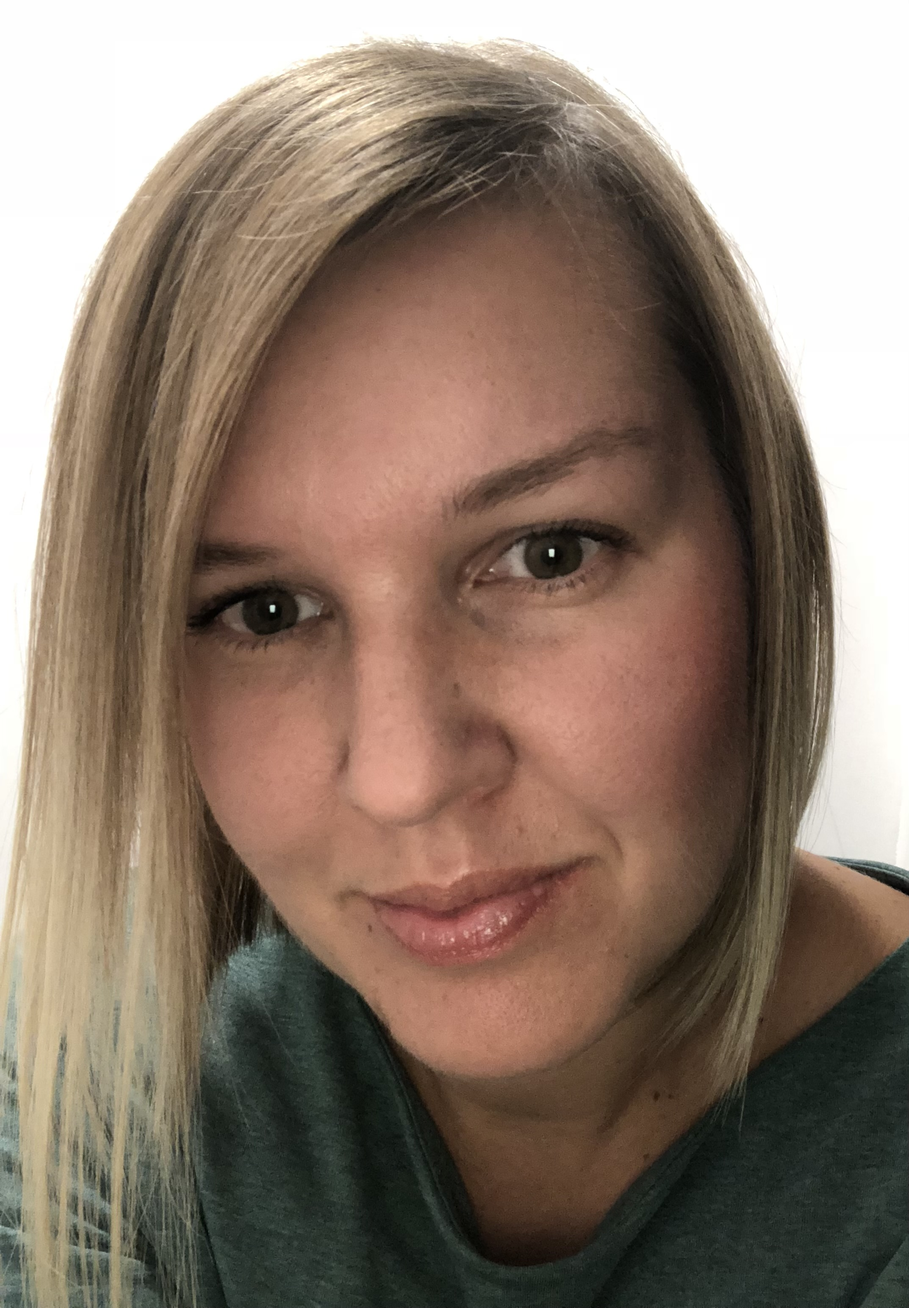
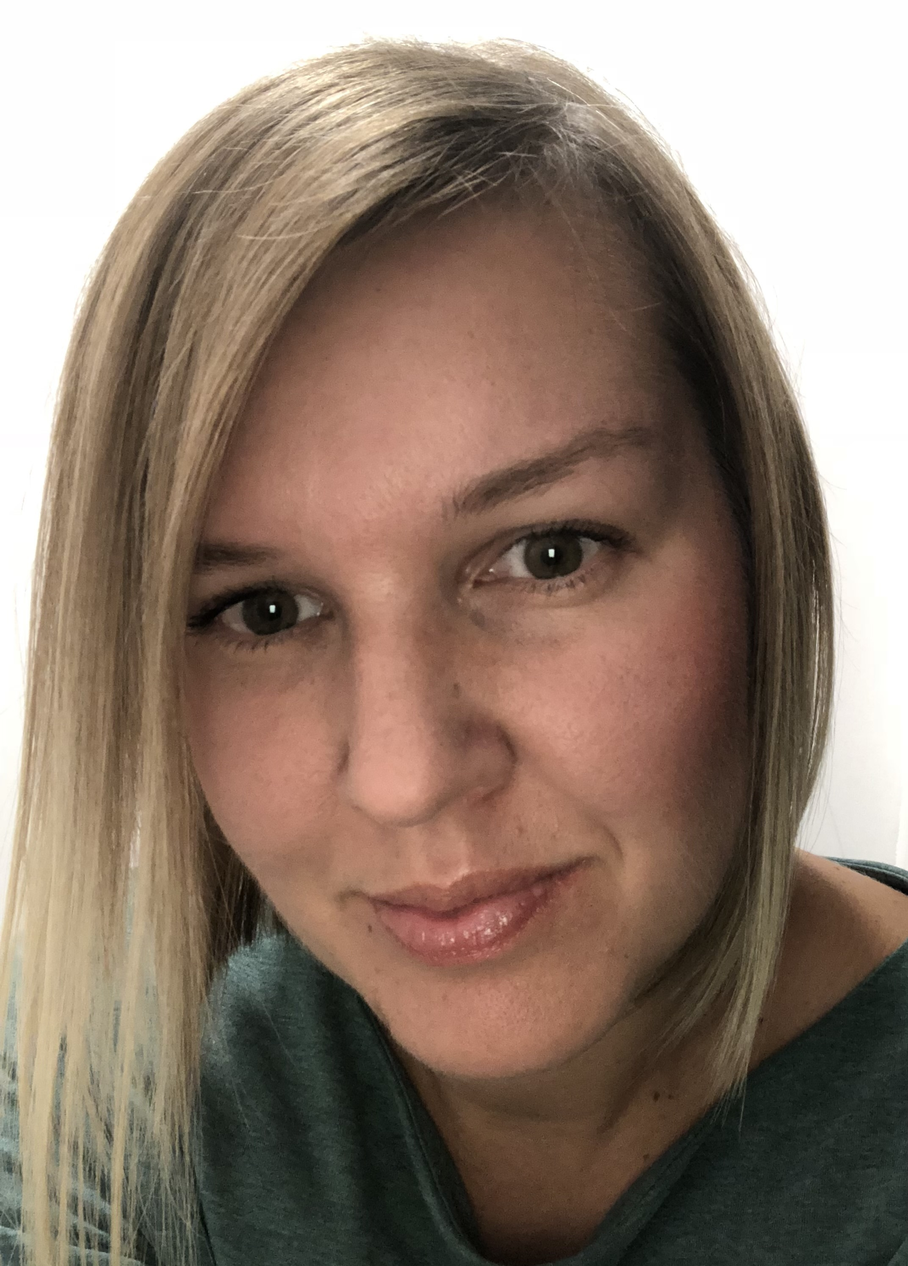
Resize images

diff --git a/src/components/ui/Lecture/Lecture.tsx b/src/components/ui/Lecture/Lecture.tsx
@@ -37,6 +37,9 @@ export const Lecture = ({ lecturers, abstract }: LectureType) => {
                     e.currentTarget.src = "images/person.png";
                   }}
                   alt={lecturer.fullName}
+                  className={
+                    lecturer?.scaleDown ? styles["lecturer__image--scale"] : ""
+                  }
                 />
               </div>
               <figcaption>

diff --git a/src/components/ui/Lecture/Lecture.module.scss b/src/components/ui/Lecture/Lecture.module.scss
@@ -44,6 +44,10 @@
     border-radius: 4px 16px;
   }
 
+  &--scale {
+    object-fit: scale-down !important;
+  }
+
   & figcaption {
     display: block;
     margin-top: 8px;
